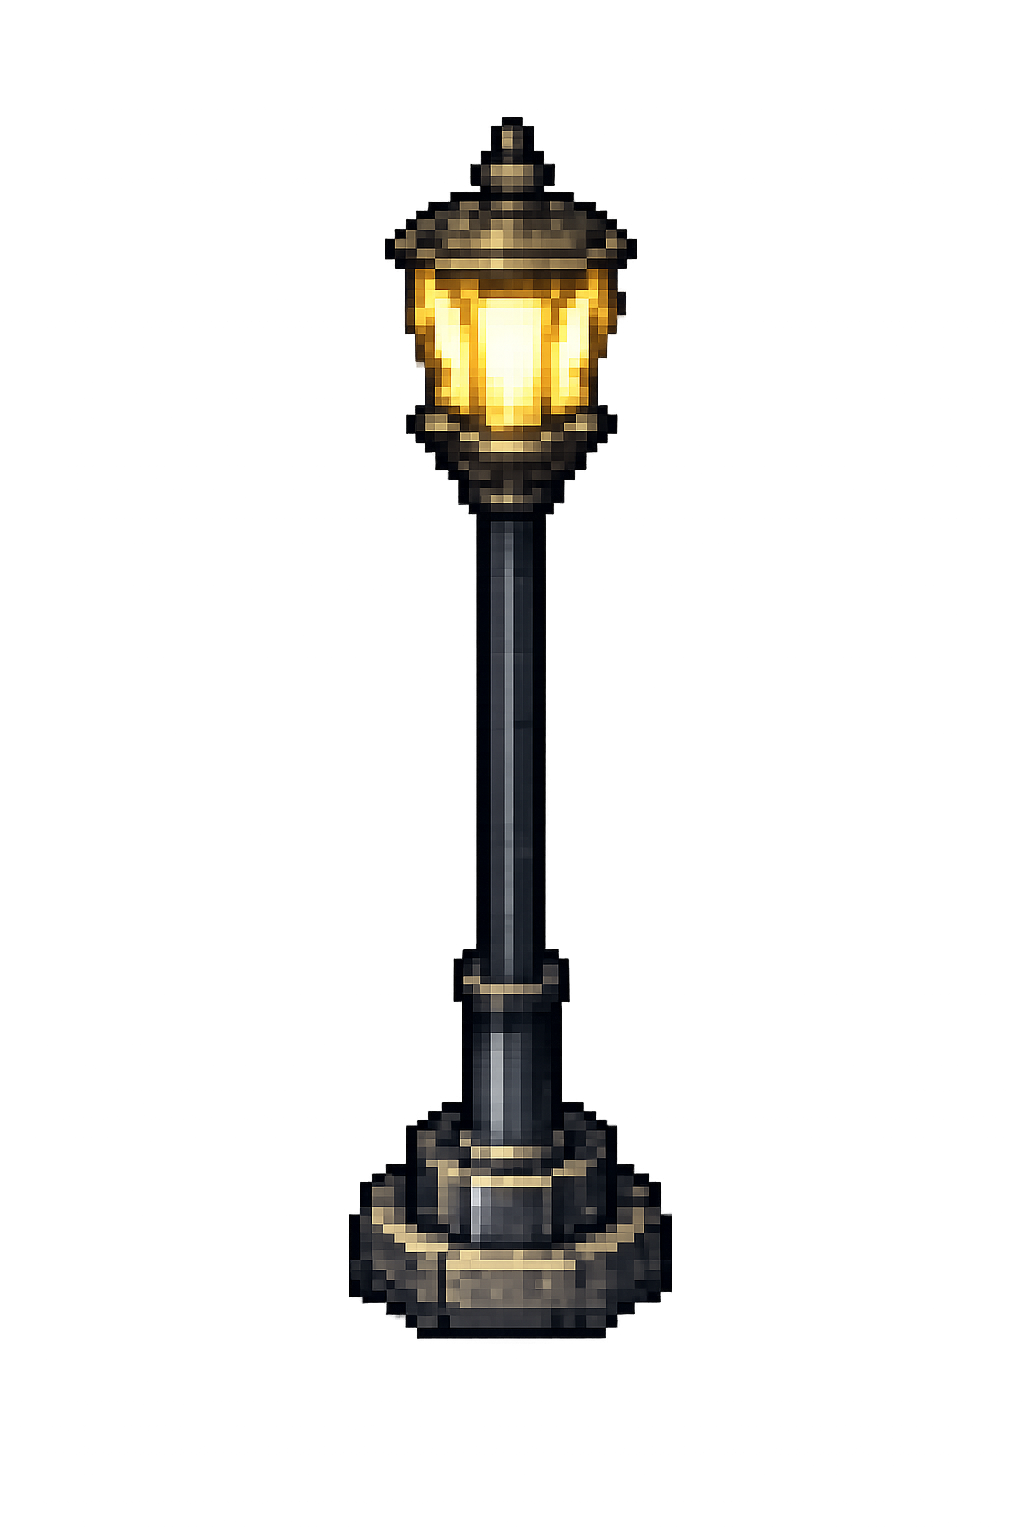
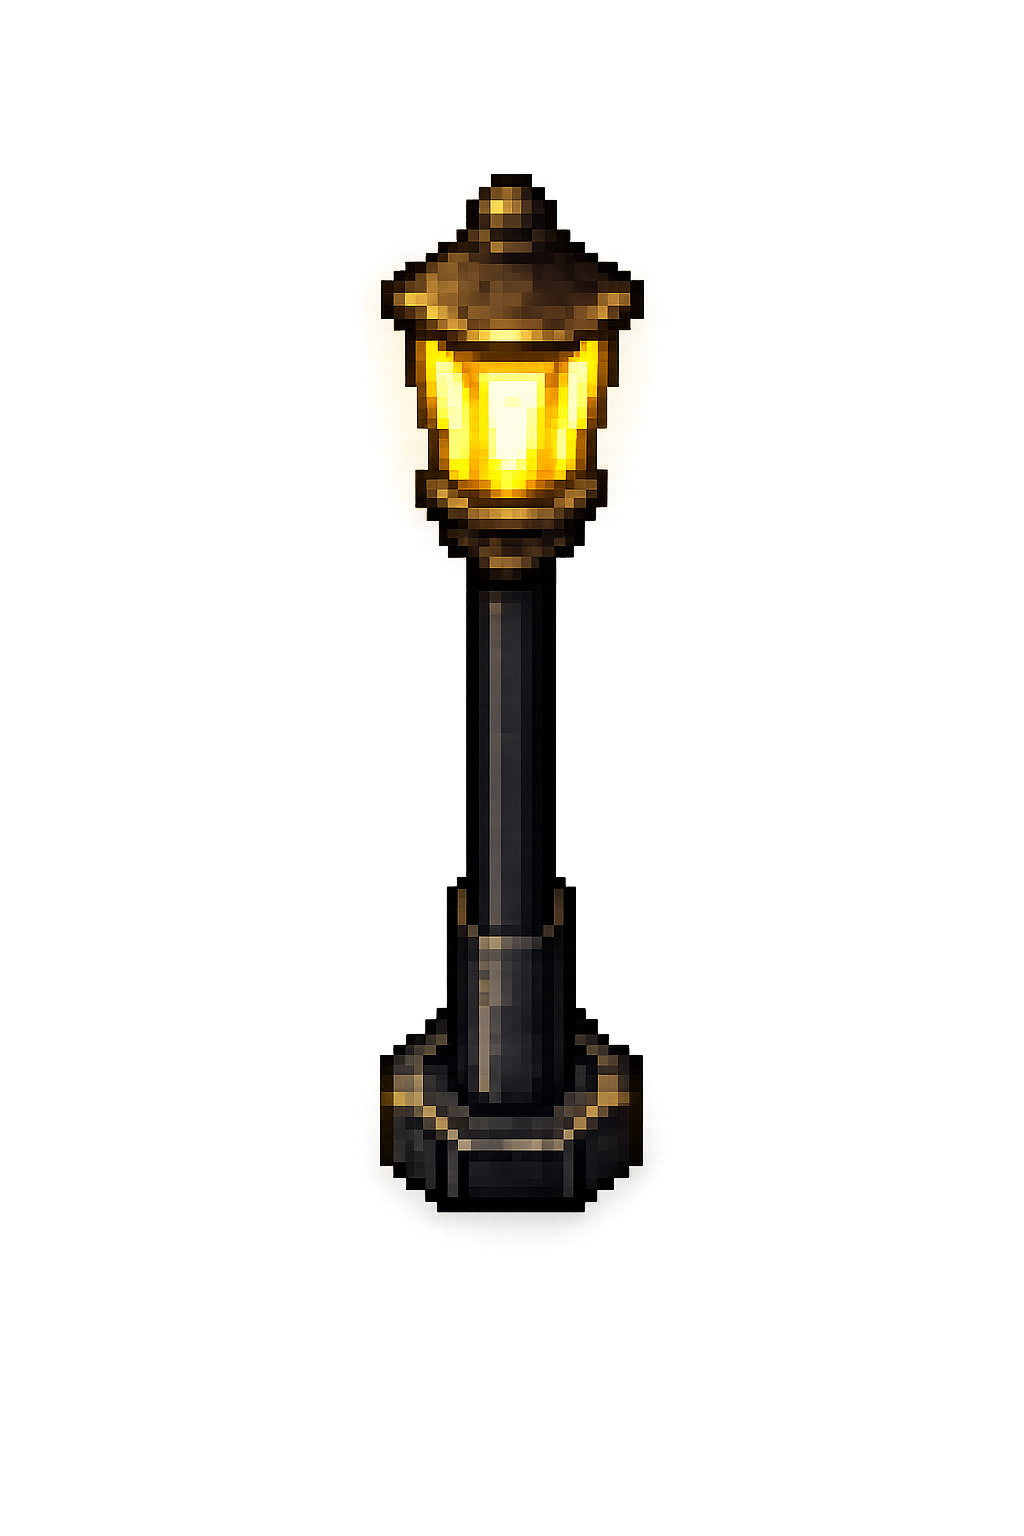
feat: finalize common world hub design

Changed region(s): [[0.3438, 0.0625, 0.6562, 0.875]]

diff --git a/frontend/src/Scenes/OutsideWorldScene.jsx b/frontend/src/Scenes/OutsideWorldScene.jsx
@@ -6,7 +6,7 @@ import Floor from "../assets/OutsideFloor.png"
 import FlowerPot from "../assets/FlowerPot.png"
 import Fountain from "../assets/Fountain.png";
 import Lamp from "../assets/Lamp.png";
-import Base from "../assets/Base.png";
+import Base from "../assets/Base1.png";
 import Pavement from "../assets/Pavement.png";
 import Shop from "../assets/Shop.png";
 import CostumeStore from "../assets/CostumeStore.png"; 
@@ -17,6 +17,13 @@ import Statue from "../assets/Statue.png";
 import ClothSign from "../assets/clothSign.png";
 import Bench from "../assets/Bench.png";
 import FlowerPot3 from "../assets/FlowerPot3.png"
+import Flag from "../assets/Flag.png";
+import Bin2 from "../assets/Bin2.png";
+import BottomLeftSign from "../assets/bottomLeftSign.png";
+import Boulder from "../assets/Boulder.png";
+import Stones from "../assets/Stones.png";
+import Flower from "../assets/Flower.png";
+import Statue2 from "../assets/Statue2.png";
 
 class OutsideWorldScene extends Phaser.Scene{
     constructor(){
@@ -41,61 +48,67 @@ class OutsideWorldScene extends Phaser.Scene{
         this.load.image("ClothSign",ClothSign);
         this.load.image("Bench",Bench);
         this.load.image("FlowerPot3",FlowerPot3);
-
+        this.load.image("Flag",Flag);
+        this.load.image("Bin2",Bin2);
+        this.load.image("BottomLeftSign",BottomLeftSign);
+        this.load.image("Boulder",Boulder);
+        this.load.image("Stones",Stones);
+        this.load.image("Flower",Flower);
+        this.load.image("Statue2",Statue2);
     }
     create(){
         this.add.rectangle(0,0,3000,3000,0x3cb043).setOrigin(0);
-                const tileSize = 400;
+        const tileSize = 400;
 
-         for(let x = 0; x < 3000; x += tileSize){
-            for(let y = 0; y < 3000; y += tileSize){
-                this.add.image(x, y, "Floor")
-                    .setOrigin(0,0)
-                    .setDisplaySize(tileSize, tileSize);
-            }
-        }
-        this.Pavement = this.add.image(1200,1100,"Pavement").setScale(1.2)
-        this.ArcadeBuilding = this.add.image(1200,380,"ArcadeBuilding").setScale(0.5);
+        this.base = this.add.image(0,0,"Base").setOrigin(0).setScale(1.8);
+        this.Pavement = this.add.image(1373,1000,"Pavement").setScale(0.7)
+        this.ArcadeBuilding = this.add.image(1375,420,"ArcadeBuilding").setScale(0.5);
+        this.leftPot = this.add.image(1160,600,"FlowerPot").setScale(0.1);
+        this.righPot = this.add.image(1590,600,"FlowerPot").setScale(0.1);
 
-       this.shop = this.add.image(1850, 580, "Shop").setScale(0.37);
-        this.coustumeStore = this.add.image(550, 580, "CostumeStore").setScale(0.38);
+        this.topRightLamp = this.add.image(1870,210,"Lamp").setScale(0.18);
+        this.topLeftLamp = this.add.image(925,210,"Lamp").setScale(0.18);
+        this.bottomLeftLamp = this.add.image(170,1120,"Lamp").setScale(0.18);
+        this.bottonRightLamp = this.add.image(2550,1120,"Lamp").setScale(0.18);
 
-        this.FlowerPot2 = this.add.image(1960,700,"FlowerPot2").setScale(0.35);
-        this.Bin = this.add.image(2035,700,"Bin").setScale(0.13);
-        this.MartSign = this.add.image(1730,690,"MartSign").setScale(0.08);
+        this.bottomLeftSign = this.add.image(420 , 1250,"BottomLeftSign").setScale(0.125);
+        this.boulder = this.add.image(395,255,"Boulder").setScale(0.1);
+        this.stones = this.add.image(2020,120,"Stones").setScale(0.12);
 
+        this.shop = this.add.image(2150,650, "Shop").setScale(0.37);
+        this.FlowerPot2 = this.add.image(2260,770,"FlowerPot2").setScale(0.35);
+        this.Bin = this.add.image(2350,770,"Bin").setScale(0.13);
+        this.MartSign = this.add.image(2040,770,"MartSign").setScale(0.085);
 
-        this.Statue = this.add.image(450,705,"Statue").setScale(0.07);
-        this.ClothSign = this.add.image(650,705,"ClothSign").setScale(0.08);
+        this.coustumeStore = this.add.image(630, 635, "CostumeStore").setScale(0.38);
+        this.Statue = this.add.image(530,765,"Statue").setScale(0.07);
+        this.ClothSign = this.add.image(735,765,"ClothSign").setScale(0.08);
+        this.bin2 = this.add.image(830,730,"Bin2").setScale(0.13);
 
-        this.leftPot = this.add.image(990,560,"FlowerPot").setScale(0.1);
-        this.righPot = this.add.image(1400,560,"FlowerPot").setScale(0.1);
         const bounds = this.ArcadeBuilding.getBounds();
-        this.buildingCollision = new Phaser.Geom.Rectangle(1040,430,320,50);
-        this.leftPillarCollision =new Phaser.Geom.Rectangle(1135,470,55,80);
-        this.rightPillarCollision =new Phaser.Geom.Rectangle(1235,470,35,80);
-        this.entranceZone = new Phaser.Geom.Rectangle(1150,500,85,40);
+        this.buildingCollision = new Phaser.Geom.Rectangle(1340,180,370,350);
+        this.leftPillarCollision =new Phaser.Geom.Rectangle(1440,480,35,80);
+        this.rightPillarCollision =new Phaser.Geom.Rectangle(1580,480,35,80);
+        this.entranceZone = new Phaser.Geom.Rectangle(1480,510,100,60);
 
         this.player = this.add.image(900,1150,"ghost").setScale(0.018);
         this.cameras.main.startFollow(this.player);
-        this.cameras.main.setBounds(0,0,3000,3000);
-        this.enterArcadeText = this.add.text( 0,0, "[ENTER] Enter Arcade",
-            {
-                fontSize: "16px",
-                color: "#ffffff",
-                backgroundColor: "#000000"
-            });
+        this.cameras.main.setBounds(0,0,2790,1790);
+        this.enterArcadeText = this.add.text( 0,0, "[ENTER] Enter Arcade",{ fontSize: "16px",color: "#ffffff",backgroundColor: "#000000"});    
+        
+        this.leftFlowerPot = this.add.image(940,930,"FlowerPot3").setScale(0.13);
+        this.flower = this.add.image(835,1100,"Flower").setScale(0.08);
+        this.rightFlowerPot = this.add.image(1850,930,"FlowerPot3").setScale(0.13);
+        
+        this.statue2 = this.add.image(550,1100,"Statue2").setScale(0.15);
 
-        this.rightFlowerPot = this.add.image(1670,900,"FlowerPot3").setScale(0.13);
-        this.leftFlowerPot = this.add.image(740,900,"FlowerPot3").setScale(0.13);
-
-        this.fountain = this.add.image(1200,1050,"Fountain").setScale(0.3);
-        this.upperLeftLamp = this.add.image(1000,800,"Lamp").setScale(0.15);
-        this.upperRightLamp = this.add.image(1398,800,"Lamp").setScale(0.15);
-        this.leftLamp = this.add.image(1020,1300,"Lamp").setScale(0.15);
-        this.rightLamp = this.add.image(1370,1300,"Lamp").setScale(0.15);
-        this.rightBench = this.add.image(1670,1075,"Bench").setScale(0.15);
-        this.leftBench = this.add.image(750,1075,"Bench").setScale(0.15);
+        this.rightFlag = this.add.image(1500,800,"Flag").setScale(0.105,0.08);
+        this.leftFlag = this.add.image(1240,800,"Flag").setScale(0.105,0.08);
+        this.fountain = this.add.image(1375,955,"Fountain").setScale(0.25);
+        this.leftLamp = this.add.image(1150,1300,"Lamp").setScale(0.18);
+        this.rightLamp = this.add.image(1580,1300,"Lamp").setScale(0.18);
+        this.rightBench = this.add.image(1848,1120,"Bench").setScale(0.15);
+        this.leftBench = this.add.image(938,1120,"Bench").setScale(0.17);
 
         this.enterArcadeText.setVisible(false);
 
@@ -129,15 +142,14 @@ class OutsideWorldScene extends Phaser.Scene{
         if(this.player.x < 0){
             this.player.x = 0;
         }
-        if(this.player.x > 3000){
-            this.player.x = 3000;
+        if(this.player.x > 2790){
+            this.player.x = 2790;
         }
-
         if(this.player.y < 0){
             this.player.y = 0;
         }
-        if(this.player.y > 3000){
-            this.player.y = 3000;
+        if(this.player.y > 1790){
+            this.player.y = 1790;
         }
         
       const hitBuilding = this.buildingCollision.contains(this.player.x,this.player.y) || this.leftPillarCollision.contains(this.player.x,this.player.y )|| this.rightPillarCollision.contains(this.player.x, this.player.y);

diff --git a/frontend/src/Scenes/ArcadeInteriorScene.jsx b/frontend/src/Scenes/ArcadeInteriorScene.jsx
@@ -300,11 +300,7 @@ function World({worldId,playerId,players}) {
         <div style={{position: "fixed",top: "10px",left: "10px",zIndex: 1000,background: "#222",color: "white",padding: "10px",borderRadius: "8px"}}>
                 World ID: {worldId}
                 <br />
-                <button style={{cursor:"pointer"}}
-                    onClick={() =>
-                        navigator.clipboard.writeText(worldId)
-                    }
-                >
+                <button style={{cursor:"pointer"}} onClick={() => navigator.clipboard.writeText(worldId)}>
                     Copy
                 </button>
                 <button onClick={() => window.leaveWorld()}>